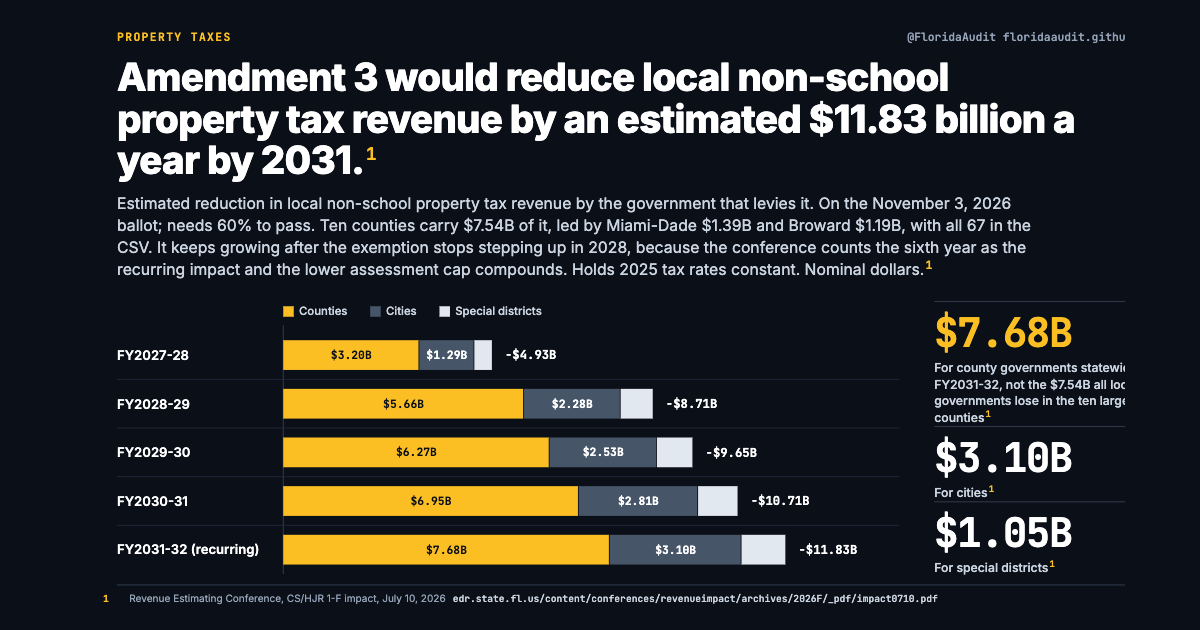
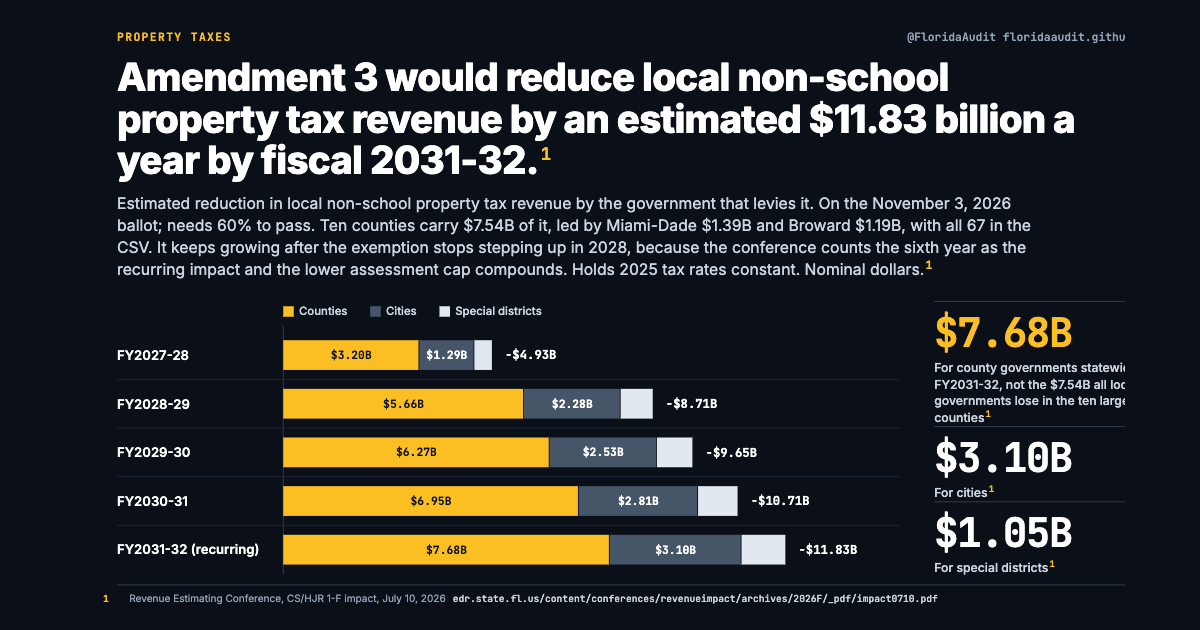
Chart images rebuilt

Changed region(s): [[0.2158, 0.2111, 0.4625, 0.3016]]

diff --git a/c/property-taxes/local-revenue-impact.html b/c/property-taxes/local-revenue-impact.html
@@ -3,32 +3,32 @@
 <head>
   <meta charset="utf-8">
   <meta name="viewport" content="width=device-width, initial-scale=1">
-  <title>Amendment 3 would reduce local non-school property tax revenue by an estimated $11.83 billion a year by 2031. · Florida Audit Project</title>
+  <title>Amendment 3 would reduce local non-school property tax revenue by an estimated $11.83 billion a year by fiscal 2031-32. · Florida Audit Project</title>
   <meta name="description" content="Property Taxes: Estimated reduction in local non-school property tax revenue by the government that levies it.">
   <link rel="canonical" href="https://floridaaudit.github.io/c/property-taxes/local-revenue-impact.html">
   <meta name="robots" content="index, follow, max-image-preview:large">
   <meta property="og:type" content="article">
   <meta property="og:site_name" content="Florida Audit Project">
-  <meta property="og:title" content="Amendment 3 would reduce local non-school property tax revenue by an estimated $11.83 billion a year by 2031.">
+  <meta property="og:title" content="Amendment 3 would reduce local non-school property tax revenue by an estimated $11.83 billion a year by fiscal 2031-32.">
   <meta property="og:description" content="Property Taxes: Estimated reduction in local non-school property tax revenue by the government that levies it.">
   <meta property="og:url" content="https://floridaaudit.github.io/c/property-taxes/local-revenue-impact.html">
   <meta property="og:image" content="https://floridaaudit.github.io/charts/property-taxes/local-revenue-impact-card.png">
   <meta property="og:image:width" content="1200">
   <meta property="og:image:height" content="630">
-  <meta property="og:image:alt" content="Amendment 3 would reduce local non-school property tax revenue by an estimated $11.83 billion a year by 2031. Estimated reduction in local non-school property tax revenue by the government that levies it. On the November 3, 2026 ballot; needs 60% to pass. Ten counties carry $7.54B of it, led by Miami-Dade $1.39B and Broward $1.19B, with all 67 in the CSV. It keeps growing after the exemption stops stepping up in 2028, because the conference counts the sixth year as the recurring impact and the lower assessment cap compounds. Holds 2025 tax rates constant. Nominal dollars.">
+  <meta property="og:image:alt" content="Amendment 3 would reduce local non-school property tax revenue by an estimated $11.83 billion a year by fiscal 2031-32. Estimated reduction in local non-school property tax revenue by the government that levies it. On the November 3, 2026 ballot; needs 60% to pass. Ten counties carry $7.54B of it, led by Miami-Dade $1.39B and Broward $1.19B, with all 67 in the CSV. It keeps growing after the exemption stops stepping up in 2028, because the conference counts the sixth year as the recurring impact and the lower assessment cap compounds. Holds 2025 tax rates constant. Nominal dollars.">
   <meta name="twitter:card" content="summary_large_image">
   <meta name="twitter:site" content="@FloridaAudit">
-  <meta name="twitter:title" content="Amendment 3 would reduce local non-school property tax revenue by an estimated $11.83 billion a year by 2031.">
+  <meta name="twitter:title" content="Amendment 3 would reduce local non-school property tax revenue by an estimated $11.83 billion a year by fiscal 2031-32.">
   <meta name="twitter:description" content="Property Taxes: Estimated reduction in local non-school property tax revenue by the government that levies it.">
   <meta name="twitter:image" content="https://floridaaudit.github.io/charts/property-taxes/local-revenue-impact-card.png">
-  <meta name="twitter:image:alt" content="Amendment 3 would reduce local non-school property tax revenue by an estimated $11.83 billion a year by 2031. Estimated reduction in local non-school property tax revenue by the government that levies it. On the November 3, 2026 ballot; needs 60% to pass. Ten counties carry $7.54B of it, led by Miami-Dade $1.39B and Broward $1.19B, with all 67 in the CSV. It keeps growing after the exemption stops stepping up in 2028, because the conference counts the sixth year as the recurring impact and the lower assessment cap compounds. Holds 2025 tax rates constant. Nominal dollars.">
+  <meta name="twitter:image:alt" content="Amendment 3 would reduce local non-school property tax revenue by an estimated $11.83 billion a year by fiscal 2031-32. Estimated reduction in local non-school property tax revenue by the government that levies it. On the November 3, 2026 ballot; needs 60% to pass. Ten counties carry $7.54B of it, led by Miami-Dade $1.39B and Broward $1.19B, with all 67 in the CSV. It keeps growing after the exemption stops stepping up in 2028, because the conference counts the sixth year as the recurring impact and the lower assessment cap compounds. Holds 2025 tax rates constant. Nominal dollars.">
   <link rel="icon" href="/assets/favicon.png" type="image/png">
   <link rel="stylesheet" href="/assets/site.css">
   <script type="application/ld+json">
 {
   "@context": "https://schema.org",
   "@type": "Dataset",
-  "name": "Amendment 3 would reduce local non-school property tax revenue by an estimated $11.83 billion a year by 2031.",
+  "name": "Amendment 3 would reduce local non-school property tax revenue by an estimated $11.83 billion a year by fiscal 2031-32.",
   "description": "Property Taxes: Estimated reduction in local non-school property tax revenue by the government that levies it.",
   "url": "https://floridaaudit.github.io/c/property-taxes/local-revenue-impact.html",
   "license": "https://creativecommons.org/publicdomain/zero/1.0/",
@@ -67,10 +67,10 @@
 <main>
   <article>
     <p class="kicker">Property Taxes</p>
-    <h1>Amendment 3 would reduce local non-school property tax revenue by an estimated $11.83 billion a year by 2031.</h1>
+    <h1>Amendment 3 would reduce local non-school property tax revenue by an estimated $11.83 billion a year by fiscal 2031-32.</h1>
     <p class="sub">Estimated reduction in local non-school property tax revenue by the government that levies it. On the November 3, 2026 ballot; needs 60% to pass. Ten counties carry $7.54B of it, led by Miami-Dade $1.39B and Broward $1.19B, with all 67 in the CSV. It keeps growing after the exemption stops stepping up in 2028, because the conference counts the sixth year as the recurring impact and the lower assessment cap compounds. Holds 2025 tax rates constant. Nominal dollars.</p>
     <figure>
-      <img src="/charts/property-taxes/local-revenue-impact.webp" width="1280" height="720" alt="Amendment 3 would reduce local non-school property tax revenue by an estimated $11.83 billion a year by 2031. Estimated reduction in local non-school property tax revenue by the government that levies it. On the November 3, 2026 ballot; needs 60% to pass. Ten counties carry $7.54B of it, led by Miami-Dade $1.39B and Broward $1.19B, with all 67 in the CSV. It keeps growing after the exemption stops stepping up in 2028, because the conference counts the sixth year as the recurring impact and the lower assessment cap compounds. Holds 2025 tax rates constant. Nominal dollars.">
+      <img src="/charts/property-taxes/local-revenue-impact.webp" width="1280" height="720" alt="Amendment 3 would reduce local non-school property tax revenue by an estimated $11.83 billion a year by fiscal 2031-32. Estimated reduction in local non-school property tax revenue by the government that levies it. On the November 3, 2026 ballot; needs 60% to pass. Ten counties carry $7.54B of it, led by Miami-Dade $1.39B and Broward $1.19B, with all 67 in the CSV. It keeps growing after the exemption stops stepping up in 2028, because the conference counts the sixth year as the recurring impact and the lower assessment cap compounds. Holds 2025 tax rates constant. Nominal dollars.">
       <figcaption>Full size: <a href="/charts/property-taxes/local-revenue-impact.png">PNG, 2560 by 1440</a></figcaption>
     </figure>
     <p class="download"><a href="/data/property-taxes/amendment-3-revenue-estimate.csv">Download the data behind this chart (amendment-3-revenue-estimate.csv)</a></p>

diff --git a/c/property-taxes/index.html b/c/property-taxes/index.html
@@ -31,7 +31,7 @@
       <li><a href="/c/property-taxes/homestead-exemption-amounts.html"><img src="/charts/property-taxes/homestead-exemption-amounts.webp" width="1280" height="720" alt="By 2028 the maximum non-school homestead exemption would be $250,000 under Amendment 3, against $52,805 under current law. Maximum exempt assessed value for a qualifying homestead, non-school levies, by roll year. Current law is $51,411 today, $52,805 by 2028 and $54,721 by 2031, because the second exemption is indexed. Amendment 3 steps up in 2027 and 2028, then indexes too. Nominal dollars." loading="lazy"><span>By 2028 the maximum non-school homestead exemption would be $250,000 under Amendment 3, against $52,805 under current law.</span></a></li>
       <li><a href="/c/property-taxes/homeowner-savings.html"><img src="/charts/property-taxes/homeowner-savings.webp" width="1280" height="720" alt="From 2028, the exemption would cut a homestead's non-school property tax by at most $2,075 a year. Yearly saving for one qualifying homestead, not for a household: the exempt value added over the 2026 maximum ($98,589 in 2027, $198,589 in 2028), taxed at an average non-school rate, with no rate or inflation changes. $2,075 is the ceiling, reached only by a home with enough assessed value to use the whole exemption; below that a home saves in proportion to its assessed value, and a renter saves nothing. The statewide figure is calculated here from Department of Revenue millage. Pinellas County is the sole county who published its own illustration, at 12.2011 mills against the state's 10.449." loading="lazy"><span>From 2028, the exemption would cut a homestead's non-school property tax by at most $2,075 a year.</span></a></li>
       <li><a href="/c/property-taxes/renters-and-new-residents.html"><img src="/charts/property-taxes/renters-and-new-residents.webp" width="1280" height="720" alt="Florida's 2.92 million renter households would get no homestead exemption. Occupied housing units by tenure, Florida, 2024. The exemption attaches to an owner's permanent residence, so the owner-occupied share is the pool that can claim one and no part of Amendment 3 reaches a renter directly. The census counts occupancy, not exemptions." loading="lazy"><span>Florida's 2.92 million renter households would get no homestead exemption.</span></a></li>
-      <li><a href="/c/property-taxes/local-revenue-impact.html"><img src="/charts/property-taxes/local-revenue-impact.webp" width="1280" height="720" alt="Amendment 3 would reduce local non-school property tax revenue by an estimated $11.83 billion a year by 2031. Estimated reduction in local non-school property tax revenue by the government that levies it. On the November 3, 2026 ballot; needs 60% to pass. Ten counties carry $7.54B of it, led by Miami-Dade $1.39B and Broward $1.19B, with all 67 in the CSV. It keeps growing after the exemption stops stepping up in 2028, because the conference counts the sixth year as the recurring impact and the lower assessment cap compounds. Holds 2025 tax rates constant. Nominal dollars." loading="lazy"><span>Amendment 3 would reduce local non-school property tax revenue by an estimated $11.83 billion a year by 2031.</span></a></li>
+      <li><a href="/c/property-taxes/local-revenue-impact.html"><img src="/charts/property-taxes/local-revenue-impact.webp" width="1280" height="720" alt="Amendment 3 would reduce local non-school property tax revenue by an estimated $11.83 billion a year by fiscal 2031-32. Estimated reduction in local non-school property tax revenue by the government that levies it. On the November 3, 2026 ballot; needs 60% to pass. Ten counties carry $7.54B of it, led by Miami-Dade $1.39B and Broward $1.19B, with all 67 in the CSV. It keeps growing after the exemption stops stepping up in 2028, because the conference counts the sixth year as the recurring impact and the lower assessment cap compounds. Holds 2025 tax rates constant. Nominal dollars." loading="lazy"><span>Amendment 3 would reduce local non-school property tax revenue by an estimated $11.83 billion a year by fiscal 2031-32.</span></a></li>
       <li><a href="/c/property-taxes/permitted-uses.html"><img src="/charts/property-taxes/permitted-uses.webp" width="1280" height="720" alt="Amendment 3 lists seven permitted uses for county and city property taxes. Text of the proposed Article VII, Section 9(a)(2). School district and special district levies are not covered by this list." loading="lazy"><span>Amendment 3 lists seven permitted uses for county and city property taxes.</span></a></li>
       <li><a href="/c/property-taxes/the-legislative-vote.html"><img src="/charts/property-taxes/the-legislative-vote.webp" width="1280" height="720" alt="Amendment 3 is on the ballot because the Legislature put it there: 75-26 in the House, 30-9 in the Senate. Votes on June 2, 2026 on CS/HJR 1-F. A joint resolution does not go to the governor." loading="lazy"><span>Amendment 3 is on the ballot because the Legislature put it there: 75-26 in the House, 30-9 in the Senate.</span></a></li>
       <li><a href="/c/property-taxes/impact-by-county.html"><img src="/charts/property-taxes/impact-by-county.webp" width="1280" height="720" alt="As a share of today's budget, eight counties will lose more than half of their non-school property tax. Recurring annual reduction estimated for FY2031-32, against each county's 2025 non-school levies, for every local government in the county. The two years are deliberate: the base grows by 2031, so the share of that later base is smaller than the share here. Holds 2025 tax rates constant. All 67 counties are in the CSV." loading="lazy"><span>As a share of today's budget, eight counties will lose more than half of their non-school property tax.</span></a></li>

diff --git a/index.html b/index.html
@@ -34,7 +34,7 @@
       <li><a href="/c/property-taxes/homestead-exemption-amounts.html">By 2028 the maximum non-school homestead exemption would be $250,000 under Amendment 3, against $52,805 under current law.</a></li>
       <li><a href="/c/property-taxes/homeowner-savings.html">From 2028, the exemption would cut a homestead's non-school property tax by at most $2,075 a year.</a></li>
       <li><a href="/c/property-taxes/renters-and-new-residents.html">Florida's 2.92 million renter households would get no homestead exemption.</a></li>
-      <li><a href="/c/property-taxes/local-revenue-impact.html">Amendment 3 would reduce local non-school property tax revenue by an estimated $11.83 billion a year by 2031.</a></li>
+      <li><a href="/c/property-taxes/local-revenue-impact.html">Amendment 3 would reduce local non-school property tax revenue by an estimated $11.83 billion a year by fiscal 2031-32.</a></li>
       <li><a href="/c/property-taxes/permitted-uses.html">Amendment 3 lists seven permitted uses for county and city property taxes.</a></li>
       <li><a href="/c/property-taxes/the-legislative-vote.html">Amendment 3 is on the ballot because the Legislature put it there: 75-26 in the House, 30-9 in the Senate.</a></li>
       <li><a href="/c/property-taxes/impact-by-county.html">As a share of today's budget, eight counties will lose more than half of their non-school property tax.</a></li>
